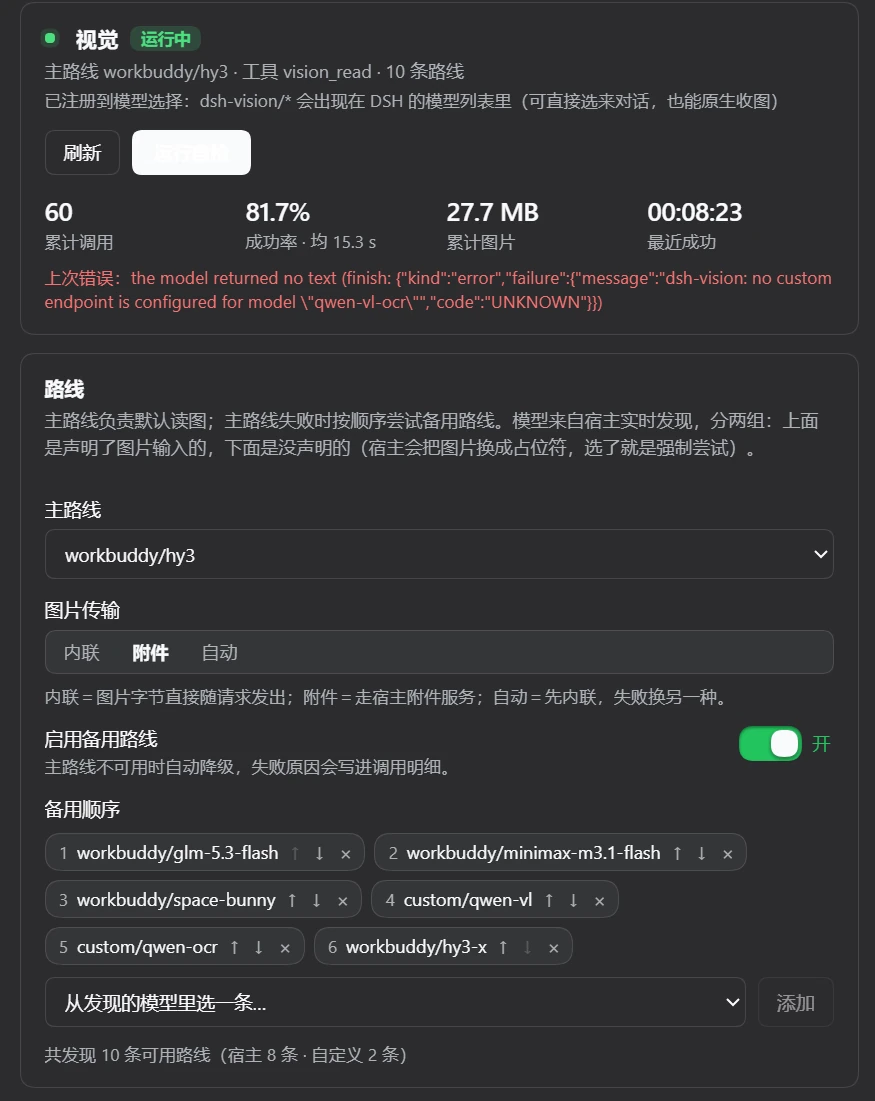
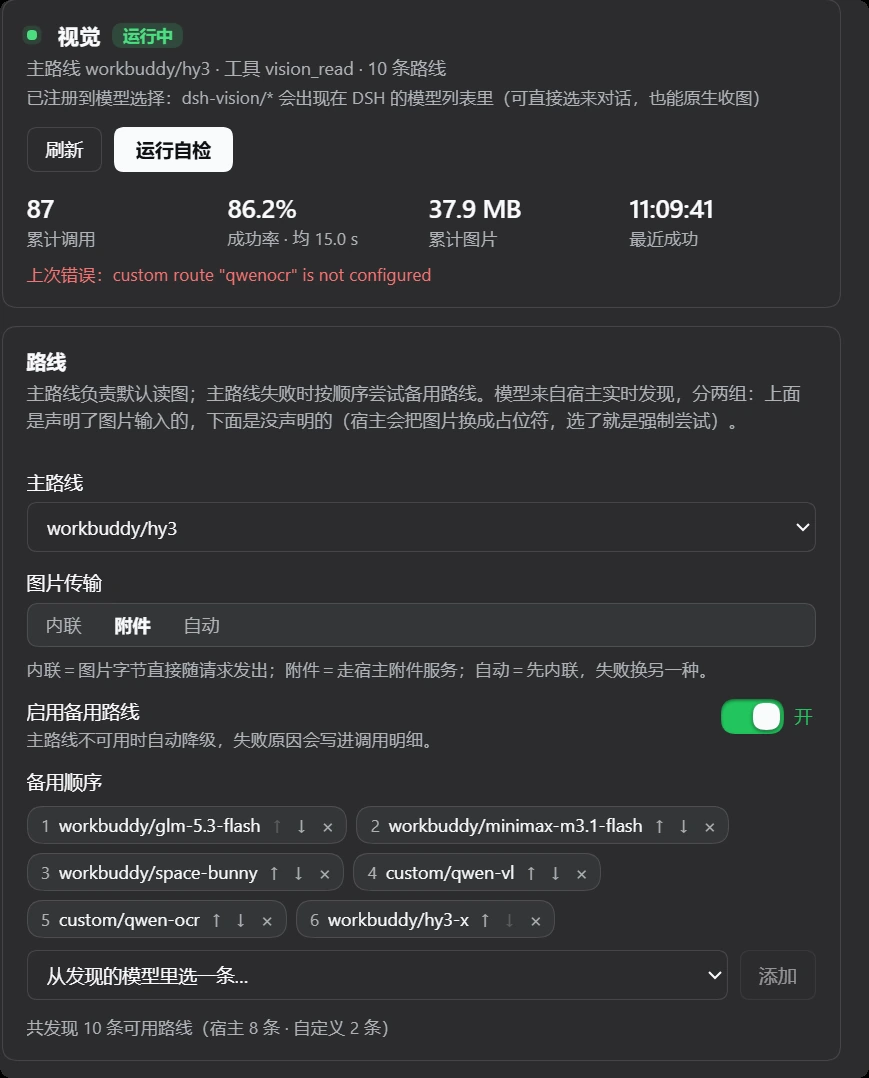
feat: lead with auto, add a save button to the prompt editor, document connector-based free vision

diff --git a/lib/client.js b/lib/client.js
@@ -643,13 +643,13 @@ window.__ModuleLoader__.load({
     ]
 
     const TASK_LABELS = [
+      { value: 'auto', label: '自动（自己写指令）' },
       { value: 'describe', label: '通用描述' },
       { value: 'text', label: '纯文字转写' },
       { value: 'ui', label: '界面截图' },
       { value: 'chart', label: '图表读数' },
       { value: 'diff', label: '多图对比' },
-      { value: 'question', label: '定向提问' },
-      { value: 'auto', label: '自动（模型自己写指令）' }
+      { value: 'question', label: '定向提问' }
     ]
 
     function pick(config) {
@@ -1376,7 +1376,7 @@ window.__ModuleLoader__.load({
         Section,
         {
           title: '提示词',
-          desc: '读图的提示词由插件内置，不由调用方临时编写——换模型、换会话，结果的颗粒度都一样。调用方只需选任务，必要时补一句附加要求。',
+          desc: '读图提示词出厂就有六套预置模板，调用方只需选任务。下面每一栏都可以直接改，改完点页面底部的「保存」就落到本机配置文件，下次读图立刻生效——不是只读的展示。',
           collapsible: true,
           defaultOpen: false
         },
@@ -1444,6 +1444,35 @@ window.__ModuleLoader__.load({
               value: draft.promptPrefix || '',
               onChange: (event) => patch({ promptPrefix: event.target.value })
             })
+          ),
+          React.createElement(
+            'div',
+            { style: { display: 'flex', alignItems: 'center', gap: 8, flexWrap: 'wrap' } },
+            React.createElement(
+              'button',
+              {
+                type: 'button',
+                onClick: save,
+                disabled: !dirty || busy !== '',
+                style: { ...S.btnPrimary, opacity: !dirty || busy !== '' ? 0.5 : 1 }
+              },
+              busy === 'save' ? '保存中…' : '保存提示词'
+            ),
+            React.createElement(
+              'button',
+              {
+                type: 'button',
+                onClick: () => setDraft(pick(config)),
+                disabled: !dirty || busy !== '',
+                style: { ...S.btn, opacity: !dirty || busy !== '' ? 0.5 : 1 }
+              },
+              '放弃修改'
+            ),
+            React.createElement(
+              'span',
+              { style: { ...S.hint, margin: 0 } },
+              dirty ? '有未保存的修改，保存后才生效' : '模板已保存'
+            )
           )
         )
       )

diff --git a/lib/index.js b/lib/index.js
@@ -34,7 +34,10 @@ const CUSTOM_PROVIDER = 'custom'
 // already has for it. Lets models the host marks as text-only be tested for real.
 const DIRECT_PROVIDER = 'direct'
 const PROFILE_DIR = path.resolve(fileURLToPath(new URL('.', import.meta.url)), '../../..')
-const TASK_KEYS = ['describe', 'text', 'ui', 'chart', 'diff', 'question', 'auto']
+// auto leads the list: it is the escape hatch people reach for first when the
+// built-in templates do not fit, and burying it at the bottom hid it. The
+// default task stays `describe` — see DEFAULTS.defaultTask below.
+const TASK_KEYS = ['auto', 'describe', 'text', 'ui', 'chart', 'diff', 'question']
 
 const DEFAULTS = {
   // master switch: when false the tool answers with a clear refusal
